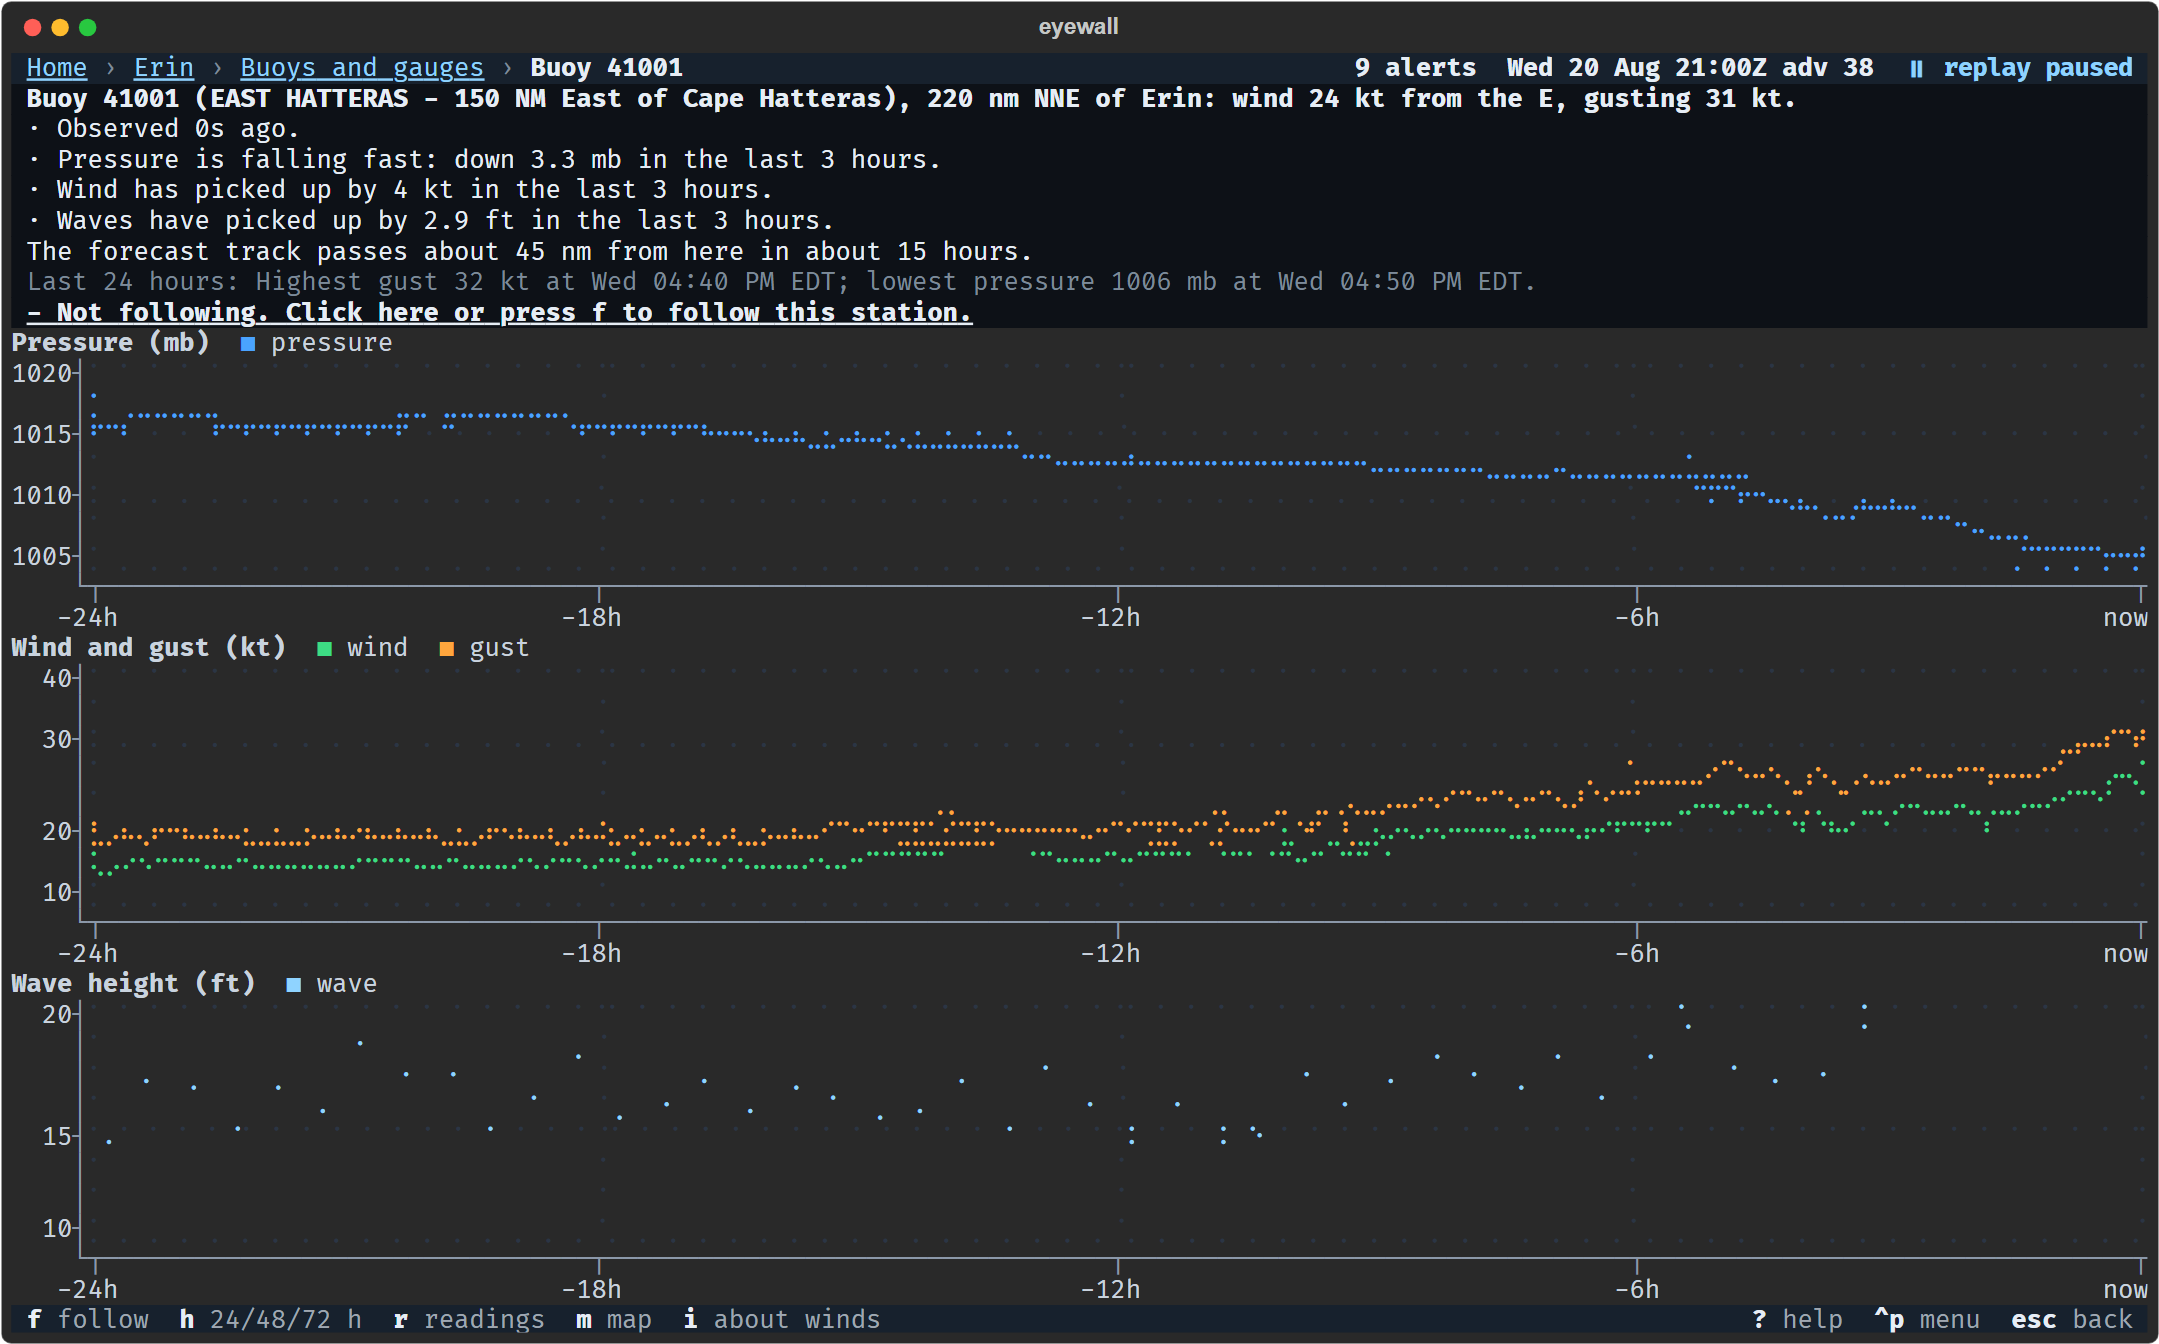
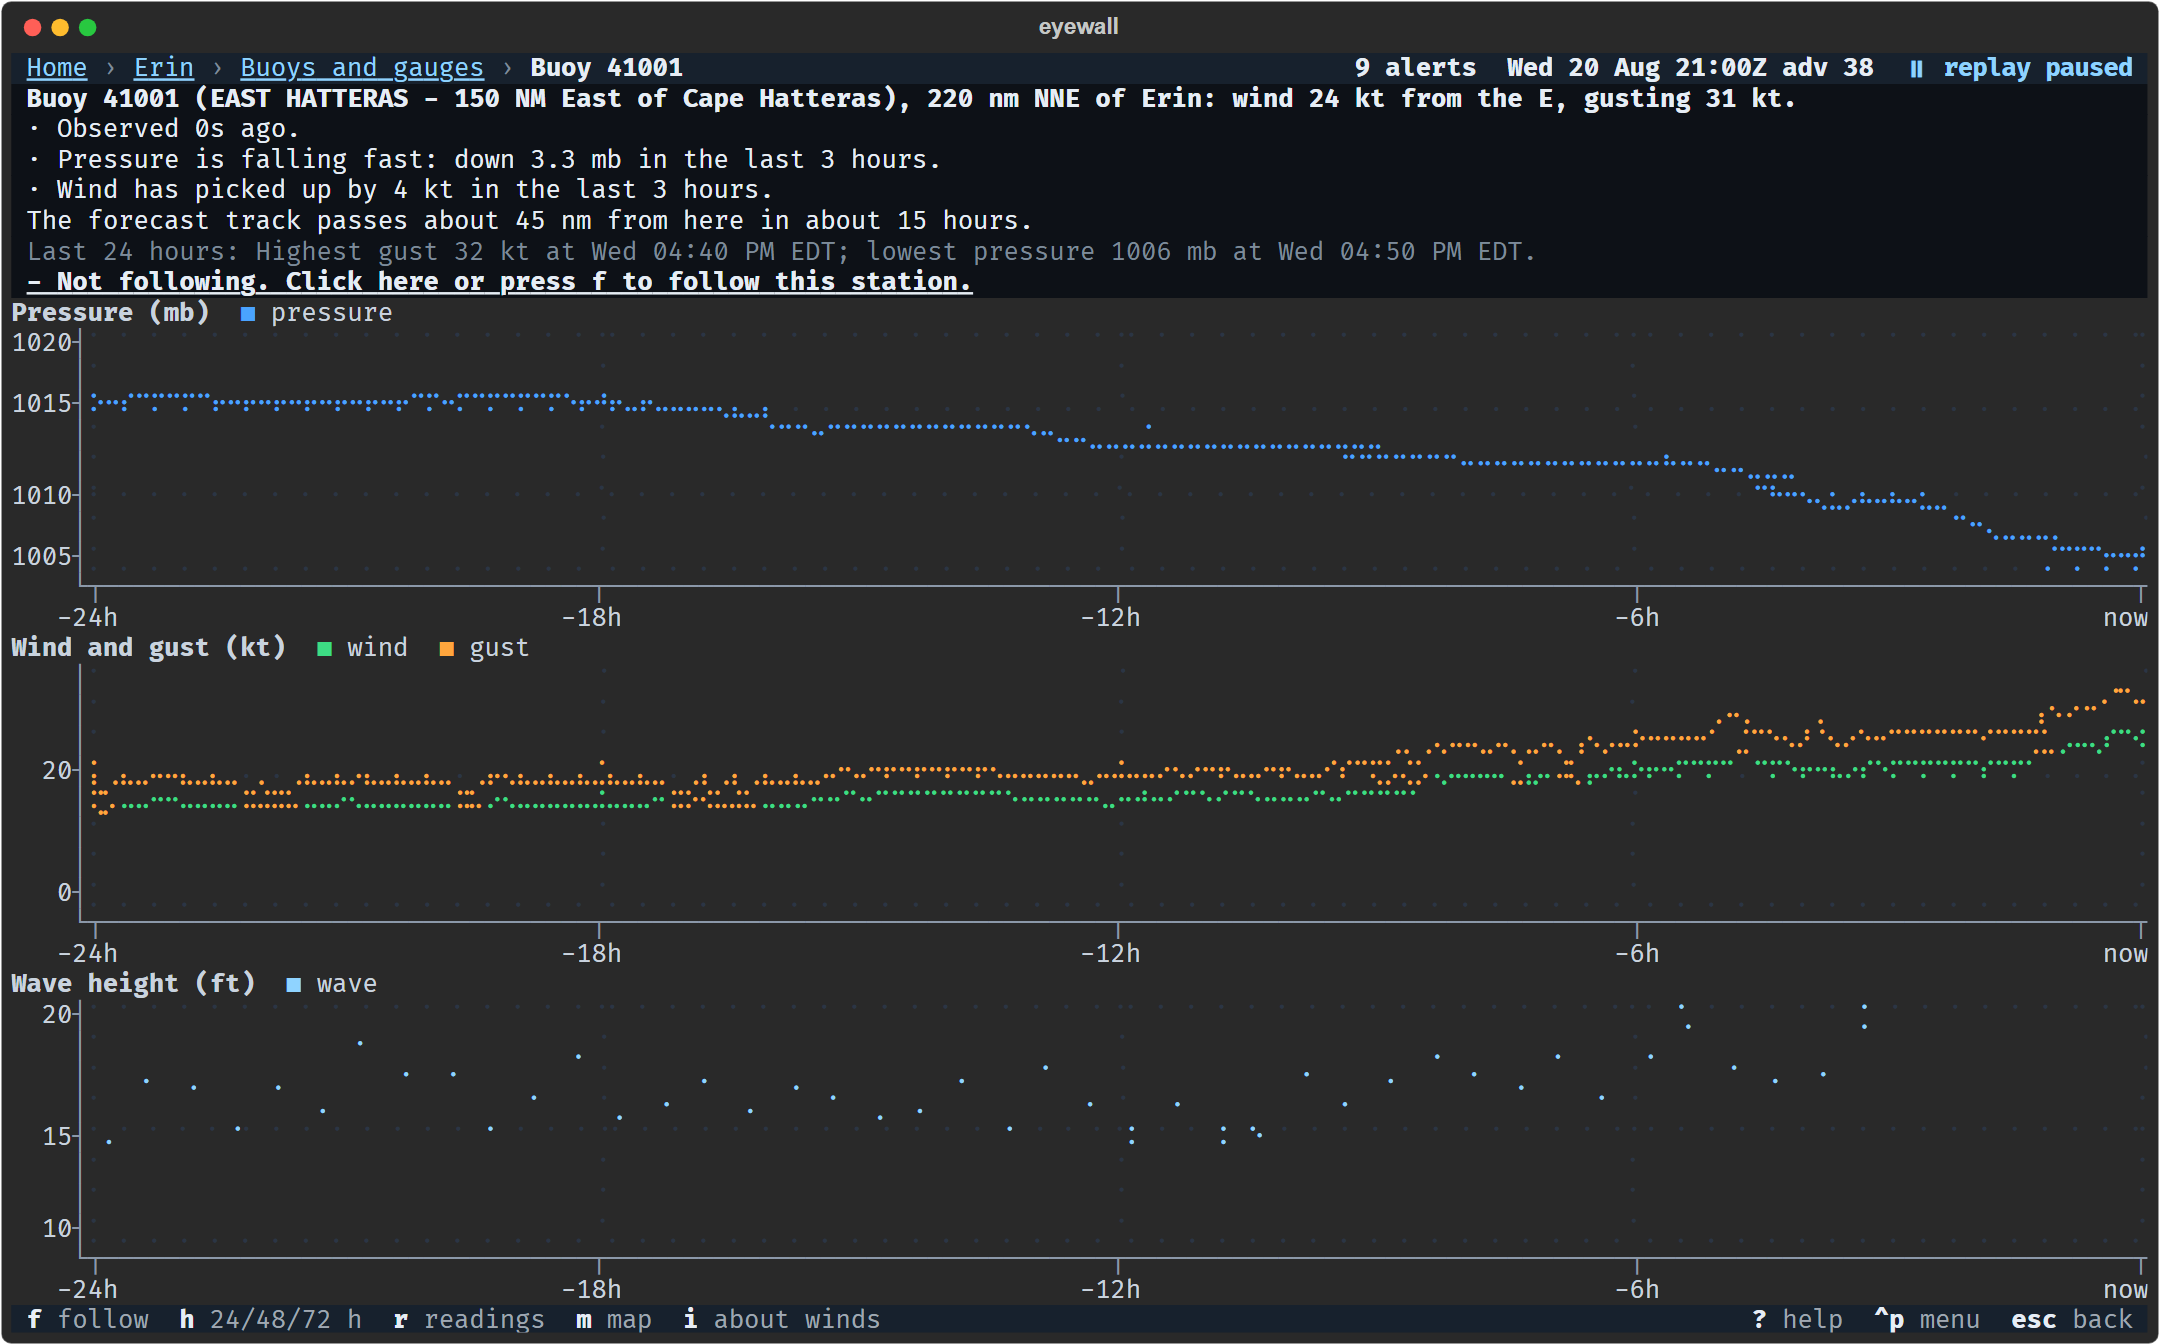
docs: add 0.9.0 changelog entries for #128, #130 and #137 and recapture the buoy picture

diff --git a/CHANGELOG.md b/CHANGELOG.md
@@ -17,6 +17,7 @@
 - Pin the standalone binaries' dependencies in `scripts/binary-constraints.txt`, with `scripts/update_constraints.py` to refresh them ([`0ac3d0b`](https://github.com/WPTK/eyewall/commit/0ac3d0b), [#25](https://github.com/WPTK/eyewall/pull/25))
 - Rewrite the README around the redesigned screens, keys and `--summary`, and move contributor guidance into `docs/development.md` and install notes into `docs/install.md` ([`bbdff09`](https://github.com/WPTK/eyewall/commit/bbdff09), [#46](https://github.com/WPTK/eyewall/pull/46); [`c92dc90`](https://github.com/WPTK/eyewall/commit/c92dc90), [#56](https://github.com/WPTK/eyewall/pull/56))
 - Bound test runs, split feed outages from format drift in the daily canary and enable Dependabot ([`d72818f`](https://github.com/WPTK/eyewall/commit/d72818f), [#92](https://github.com/WPTK/eyewall/pull/92))
+- Call the picture screen Pictures everywhere, in the crumb, help, command palette and empty message, instead of Graphics ([`5655bf5`](https://github.com/WPTK/eyewall/commit/5655bf5), [#128](https://github.com/WPTK/eyewall/pull/128))
 
 ### Added
 
@@ -31,6 +32,7 @@
 - Keep bold, underline and reverse video on the map and charts when `NO_COLOR` is set ([`cb806d9`](https://github.com/WPTK/eyewall/commit/cb806d9), [#117](https://github.com/WPTK/eyewall/pull/117))
 - Add `Tab` on the Station screen to show the next chart when the screen is too short for all of them ([`4d5deff`](https://github.com/WPTK/eyewall/commit/4d5deff), [#126](https://github.com/WPTK/eyewall/pull/126))
 - Add the last traceback to the feed canary issue ([`0ac3d0b`](https://github.com/WPTK/eyewall/commit/0ac3d0b), [#25](https://github.com/WPTK/eyewall/pull/25))
+- Strip control characters from feed text, and show notifications without interpreting markup ([`bbb7e39`](https://github.com/WPTK/eyewall/commit/bbb7e39), [#137](https://github.com/WPTK/eyewall/pull/137))
 
 ### Removed
 
@@ -76,6 +78,11 @@
 - Fix a config file with a byte order mark discarding all settings, and a malformed proxy port crashing startup ([`b111d67`](https://github.com/WPTK/eyewall/commit/b111d67), [#93](https://github.com/WPTK/eyewall/pull/93))
 - Fix the cone and wind radii vanishing when advisory text is retried, and buoy threshold alerts being skipped when a buoy file came from the cache ([`7154d82`](https://github.com/WPTK/eyewall/commit/7154d82), [#102](https://github.com/WPTK/eyewall/pull/102))
 - Fix a junk answer from CO-OPS or a junk 200 page blanking good data or replacing a cached feed, and the disk cache growing without a limit ([`7154d82`](https://github.com/WPTK/eyewall/commit/7154d82), [#102](https://github.com/WPTK/eyewall/pull/102))
+- Fix `NO_COLOR` alert log warning rows, which were the faintest; they are now bold and start with `!` ([`aa92cd6`](https://github.com/WPTK/eyewall/commit/aa92cd6), [#130](https://github.com/WPTK/eyewall/pull/130))
+- Fix the buoy and tide gauge wind charts, which now scale to the data instead of a fixed axis up to 100 ([`aa92cd6`](https://github.com/WPTK/eyewall/commit/aa92cd6), [#130](https://github.com/WPTK/eyewall/pull/130))
+- Fix a stale cached picture shown as the new advisory's, and the NHC text Public tab showing the previous advisory as current ([`bbb7e39`](https://github.com/WPTK/eyewall/commit/bbb7e39), [#137](https://github.com/WPTK/eyewall/pull/137))
+- Fix wind and wave trend sentences using readings older than 2 hours, and the movement speed mixing advisories ([`bbb7e39`](https://github.com/WPTK/eyewall/commit/bbb7e39), [#137](https://github.com/WPTK/eyewall/pull/137))
+- Fix `--summary` leaving out that watches and warnings are not yet read for the latest advisory ([`bbb7e39`](https://github.com/WPTK/eyewall/commit/bbb7e39), [#137](https://github.com/WPTK/eyewall/pull/137))
 
 ## [0.8.5] - 2026-10-31
 
